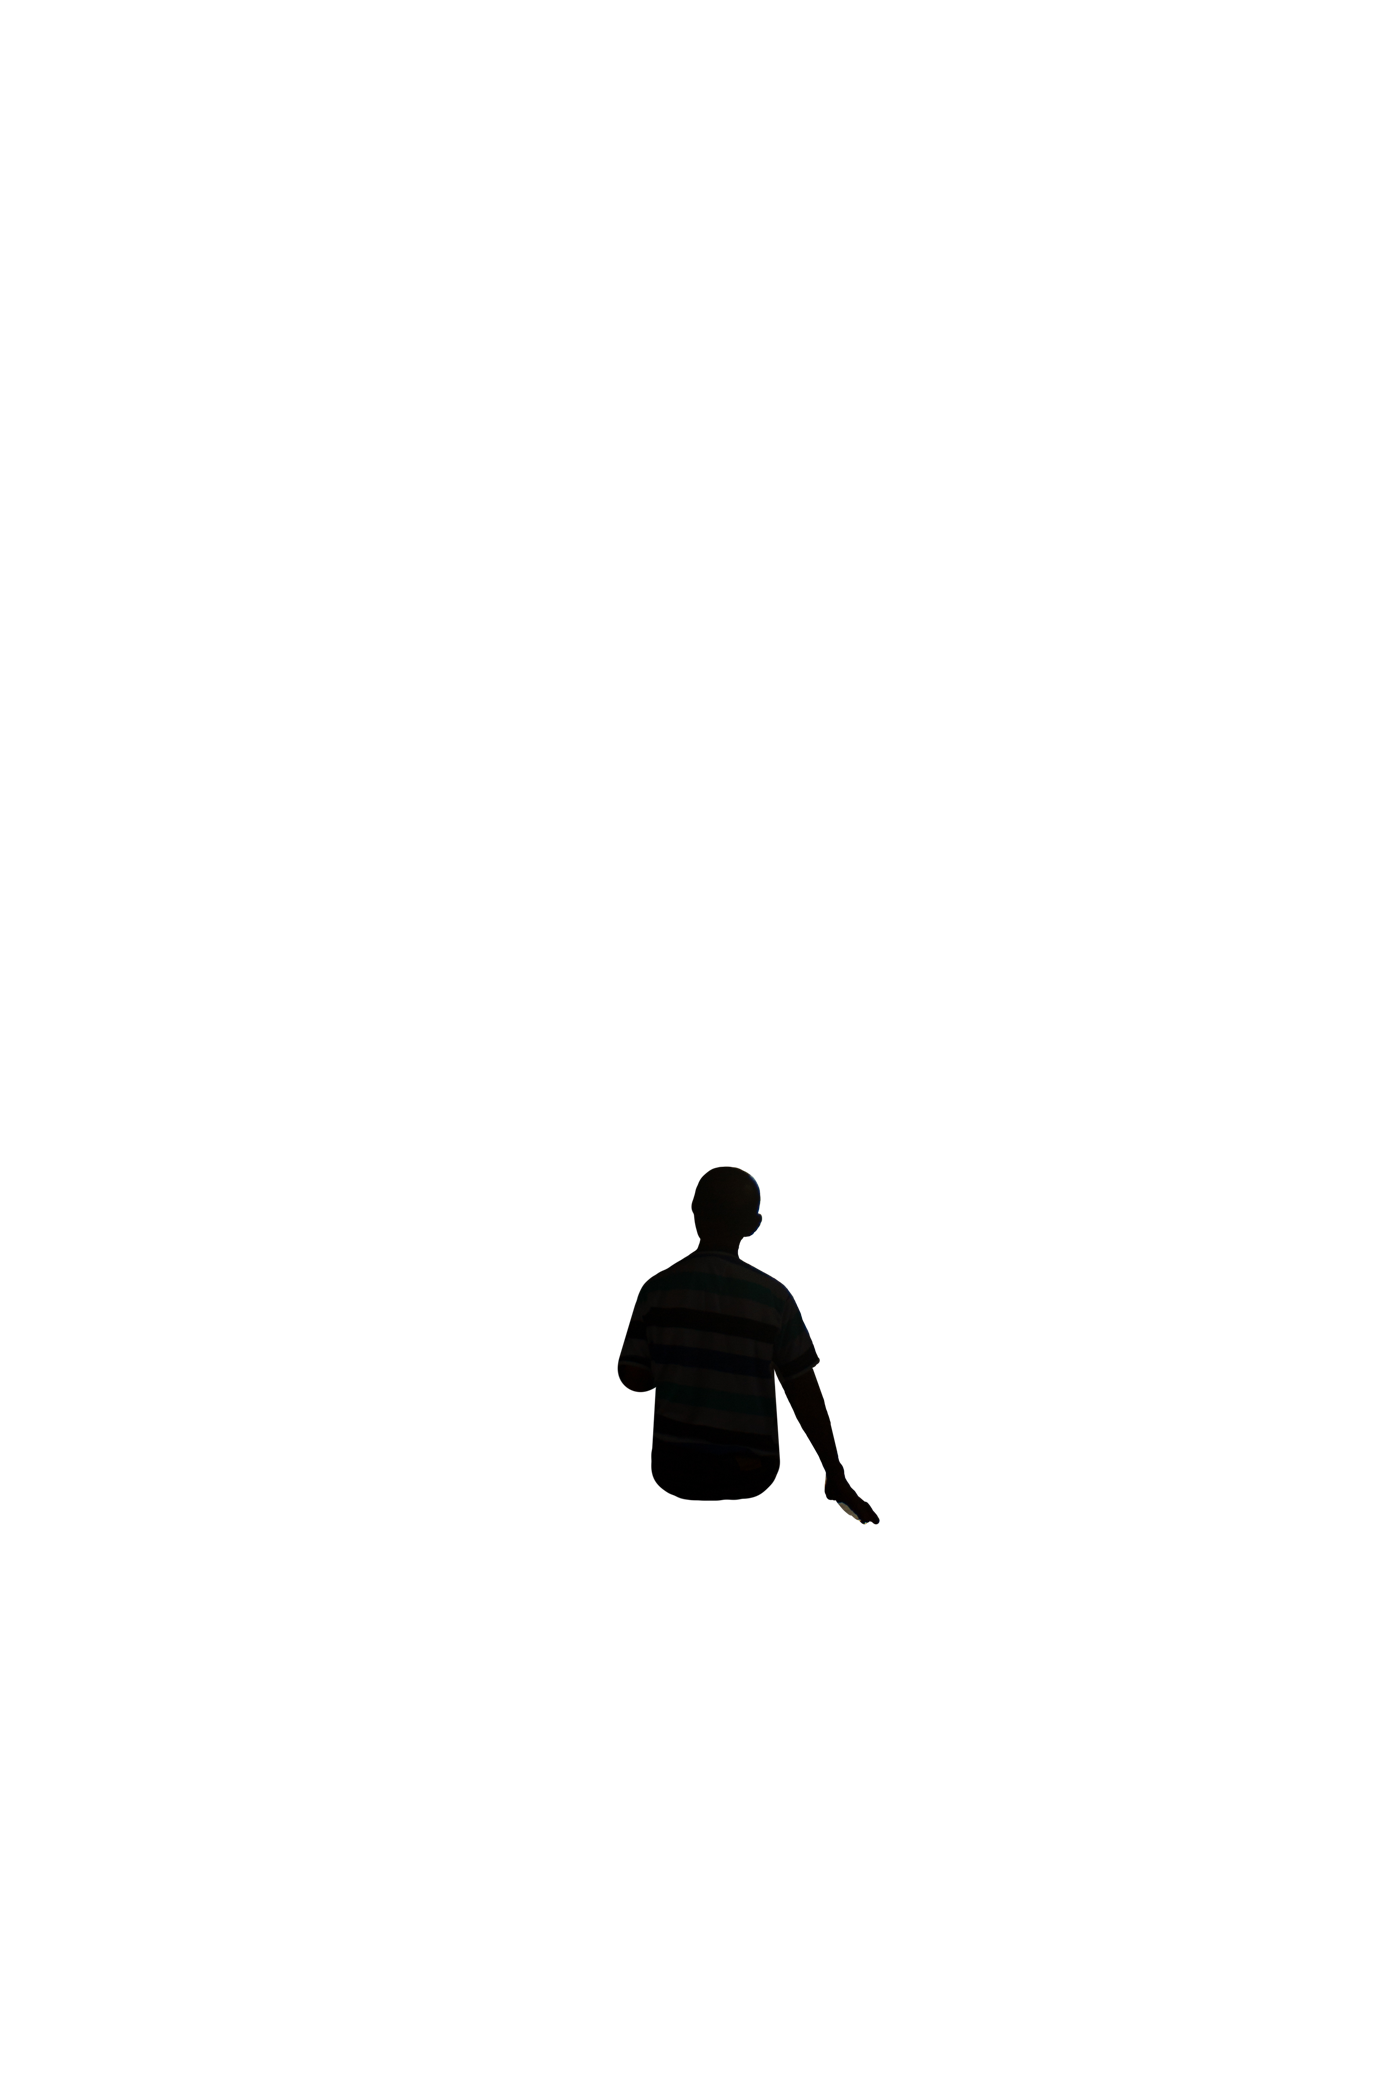
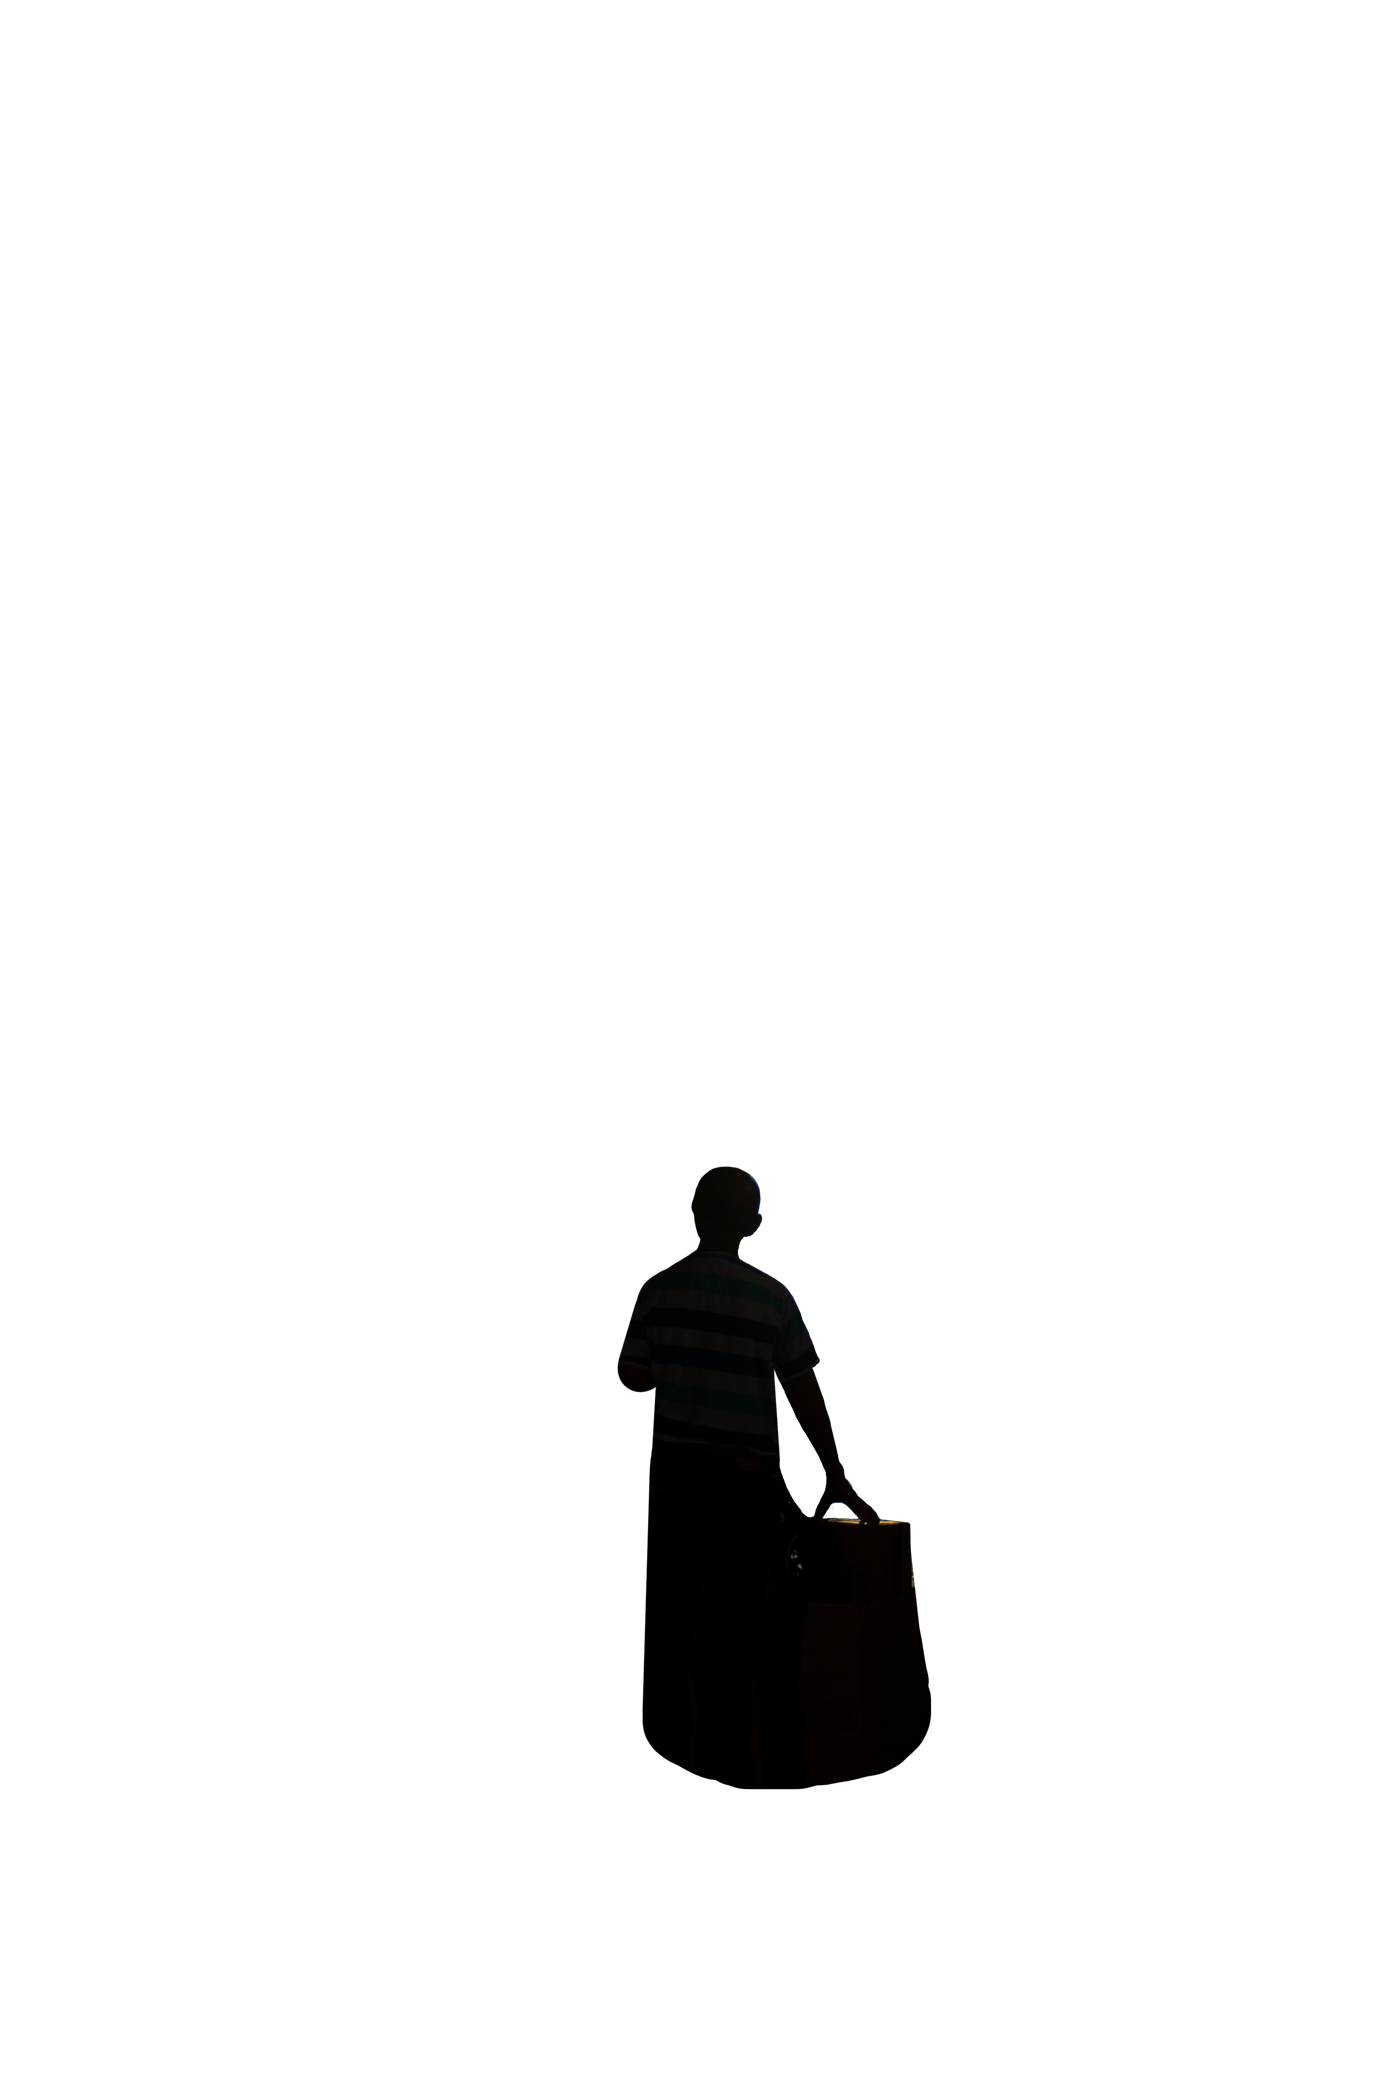
Fix: cambios finales

Changed region(s): [[0.4607, 0.7119, 0.6757, 0.8667]]

diff --git a/funciones.js b/funciones.js
@@ -40,6 +40,7 @@ const parallaxLayers = [
   { selector: ".capaA2", speed: 0.23 },
   { selector: ".capaA3", speed: 0.28 },
   { selector: ".capaA4", speed: 0.40 },
+  { selector: ".capaA5", speed: 0.40 },
 
   { selector: ".capap1", speed: 0.08 },
   { selector: ".capap2", speed: 0.23 },
@@ -242,3 +243,96 @@ document.addEventListener('DOMContentLoaded', () => {
         contenedorResultado.scrollIntoView({ behavior: 'smooth', block: 'center' });
     });
 });
+
+/**
+ * Sistema de Descarga de Postal 3D (Frente y Dorso) - Versión Segura
+ */
+// Encapsulamos todo dentro de DOMContentLoaded para asegurar que el botón ya exista al ejecutar el script
+document.addEventListener("DOMContentLoaded", function () {
+    
+    const botonDescargar = document.getElementById('btn-descargar');
+    
+    if (!botonDescargar) {
+        console.error("Error: No se encontró ningún botón con el id 'btn-descargar'.");
+        return;
+    }
+
+    botonDescargar.addEventListener('click', async function(e) {
+        e.preventDefault(); // Detiene cualquier comportamiento por defecto del enlace
+
+        // 1. Identificamos las caras en el HTML
+        const caraFrente = document.querySelector('.cara-frente');
+        const caraAtras = document.querySelector('.cara-atras');
+
+        if (!caraFrente || !caraAtras) {
+            alert("Error visual: No se encontraron las clases de las caras (.cara-frente o .cara-atras)");
+            return;
+        }
+
+        // 2. CORRECCIÓN CLAVE: Forma universal de llamar a jsPDF según la versión cargada (UMD/Cdnjs)
+        let ConstructorPDF;
+        if (window.jspdf && window.jspdf.jsPDF) {
+            ConstructorPDF = window.jspdf.jsPDF;
+        } else if (window.jsPDF) {
+            ConstructorPDF = window.jsPDF;
+        } else {
+            alert("La librería jsPDF no ha cargado correctamente en la página.");
+            return;
+        }
+
+        const opcionesCaptura = { 
+            scale: 2,       
+            useCORS: true,  
+            logging: false  
+        };
+
+        try {
+            // Indicador opcional de carga en consola
+            console.log("Procesando descarga de postal...");
+
+            // --- PASO 1: Capturar la Cara Frontal ---
+            const canvasFrente = await html2canvas(caraFrente, opcionesCaptura);
+            const imgFrente = canvasFrente.toDataURL('image/png');
+
+            // --- PASO 2: Capturar la Cara Trasera (Manejando el 3D) ---
+            const estiloOriginalTransform = caraAtras.style.transform;
+            const estiloOriginalVisibility = caraAtras.style.backfaceVisibility;
+
+            caraAtras.style.transform = 'none';
+            caraAtras.style.backfaceVisibility = 'visible';
+
+            const canvasAtras = await html2canvas(caraAtras, opcionesCaptura);
+            const imgAtras = canvasAtras.toDataURL('image/png');
+
+            // Restauramos el CSS 3D al instante
+            caraAtras.style.transform = estiloOriginalTransform;
+            caraAtras.style.backfaceVisibility = estiloOriginalVisibility;
+
+            // --- PASO 3: Construcción del PDF ---
+            const anchoPdf = canvasFrente.width;
+            const altoPdf = canvasFrente.height;
+
+            const pdf = new ConstructorPDF({
+                orientation: anchoPdf > altoPdf ? 'l' : 'p', 
+                unit: 'px',
+                format: [anchoPdf, altoPdf]
+            });
+
+            // Página 1: Frente
+            pdf.addImage(imgFrente, 'PNG', 0, 0, anchoPdf, altoPdf);
+
+            // Página 2: Dorso
+            pdf.addPage([anchoPdf, altoPdf]);
+            pdf.addImage(imgAtras, 'PNG', 0, 0, anchoPdf, altoPdf);
+
+            // Forzar descarga del archivo
+            pdf.save('Mi_Postal_Personalizada.pdf');
+            console.log("¡Descarga completada!");
+
+        } catch (error) {
+            console.error("Error crítico durante la generación del PDF:", error);
+            alert("Hubo un error al procesar el render de las imágenes.");
+        }
+    });
+});
+

diff --git a/mapamemoria.html b/mapamemoria.html
@@ -669,35 +669,6 @@
             </div>
             <div class="punto" id="xresponsive">
                 <div class="info-mapa-icon" >
-                    <a class="icono-boton foto-mapa-19" href="#card-mapa" id="boton-mapa">
-                        <img src="IMG/FlorBoton.png" alt="">
-                    </a>
-                </div>
-
-                <div class="card card--hidden" id="card-mapa">
-                    <img class="card__background" src="IMG/foto-mapa-19.jpg" alt="">
-                
-                    <div class="info-foto-mapa  | flow">
-                        <div class="info-foto-mapa-contenedor | flow">
-                            <h6>Tejiendo territorio</h6>
-                            <div class="subtitulo-lineas">
-                                <hr>
-                                <h2>Relaciones que permanecen</h2>
-                                <hr>
-                            </div>
-                            <div class="texto-intro-websodios">
-                                <p>Desde la experiencia de [nombre del verdulero], este websodio muestra cómo la plaza fortalece relaciones entre comerciantes y clientes a través de la cercanía cotidiana. En cada conversación, consejo y encuentro, se construyen vínculos que hacen de la plaza un espacio vivo de confianza, comunidad y permanencia.</p>
-                            </div>
-                            <div class="texto-apoyo-horizontal">
-                                <h2 class="alinear-centro">Poner créditos de las fotosss</h2>
-                            </div>
-                        </div>
-                        
-                    </div>
-                </div>    
-            </div>
-            <div class="punto" id="xresponsive">
-                <div class="info-mapa-icon" >
                     <a class="icono-boton foto-mapa-a" href="#card-mapa" id="boton-mapa">
                         <img src="IMG/Espiral.webp" alt="">
                     </a>

diff --git a/postales.html b/postales.html
@@ -107,7 +107,7 @@
     </div>
     <div class="container-parallax-carros">
         <div class="frase">
-            <span>“Somos una familia”</span>
+            <span>“De la plaza pa su casa”</span>
         </div>
         <div class="capa-carros-postales"></div>
     </div>
@@ -243,6 +243,12 @@
                     
                     </div>
                 </div>
+                 <a href="#" id="btn-descargar" class="boton">
+                    <img src="IMG/FLOR.png" alt="flor" width="100px">
+                    <div class="txt-boton">
+                        <span>Descargar</span>
+                    </div>
+                </a>
 
             </section>
         </div>
@@ -308,5 +314,12 @@
         </div>
     </footer>
     <script src="funciones.js"></script>
+     <script src="https://cloudflare.com" integrity="sha512-BNaRQnYJYiPSqHHDb58B0yaPfCu+Wgds8Gp/gU33kqBtgNS4tSPHuGibSRrgAG5gcEjc3q2wVsV9dLVUtcKVdw==" crossorigin="anonymous" referrerpolicy="no-referrer"></script>
+
+    <!-- 2. Cargamos jsPDF con su enlace oficial global definitivo -->
+    <script src="https://cloudflare.com"></script>
+
+    <!-- 3. AL FINAL DE TODO: Vinculas tu archivo JS propio -->
+    <script src="JS/tu-archivo-actual.js"></script> <!-- Ajusta la ruta si es necesario -->
     </body>
 </html>

diff --git a/style.css b/style.css
@@ -560,7 +560,7 @@ header.abierto {
   align-items: baseline;
   flex-direction: row;
   background-color: var(--verde-oliva-oscuro);
-  width: 55vh;
+  width: 56vh;
   height: 60%;
   border-radius: 0  var(--borde-m) var(--borde-m) 0;
 }
@@ -596,6 +596,20 @@ header.abierto {
   font-size: var(--tamaño-botones);
   color: var(--color-texto-frases);
 
+}
+.postal-elegible, 
+.frases-elegible {
+
+  transition: transform 0.3s ease, box-shadow 0.3s ease, border-color 0.3s ease;
+ 
+  cursor: pointer;         
+  overflow: hidden;
+  transform-origin: center;  
+}
+.postal-elegible:hover, 
+.frase-elegible:hover {
+  transform: scale(1.04); 
+  box-shadow: 0 10px 20px rgba(0, 0, 0, 0.15); 
 }
 
 /*Diseño footer*/
@@ -988,6 +1002,7 @@ video{
 .capaw4{
   background-image: url(IMG/Persona.png);
   z-index: 4;
+  height: 140%;
 }
 
 /*parallax cta*/
@@ -1610,7 +1625,7 @@ video{
 .container-parallax-carros{
   position: relative;
   overflow: hidden;
-  height: 120vh;
+  height: 125vh;
 }
 
 .capa-carros-postales {
@@ -1619,7 +1634,7 @@ video{
    inset: 0;
    bottom: -32%;
    background-image: url(img/Parallax-carros-postales.jpg);
-   background-size: 115%;
+   background-size: 119%;
    background-position: 0% 256%;
    background-repeat: no-repeat;
    z-index: 10;
